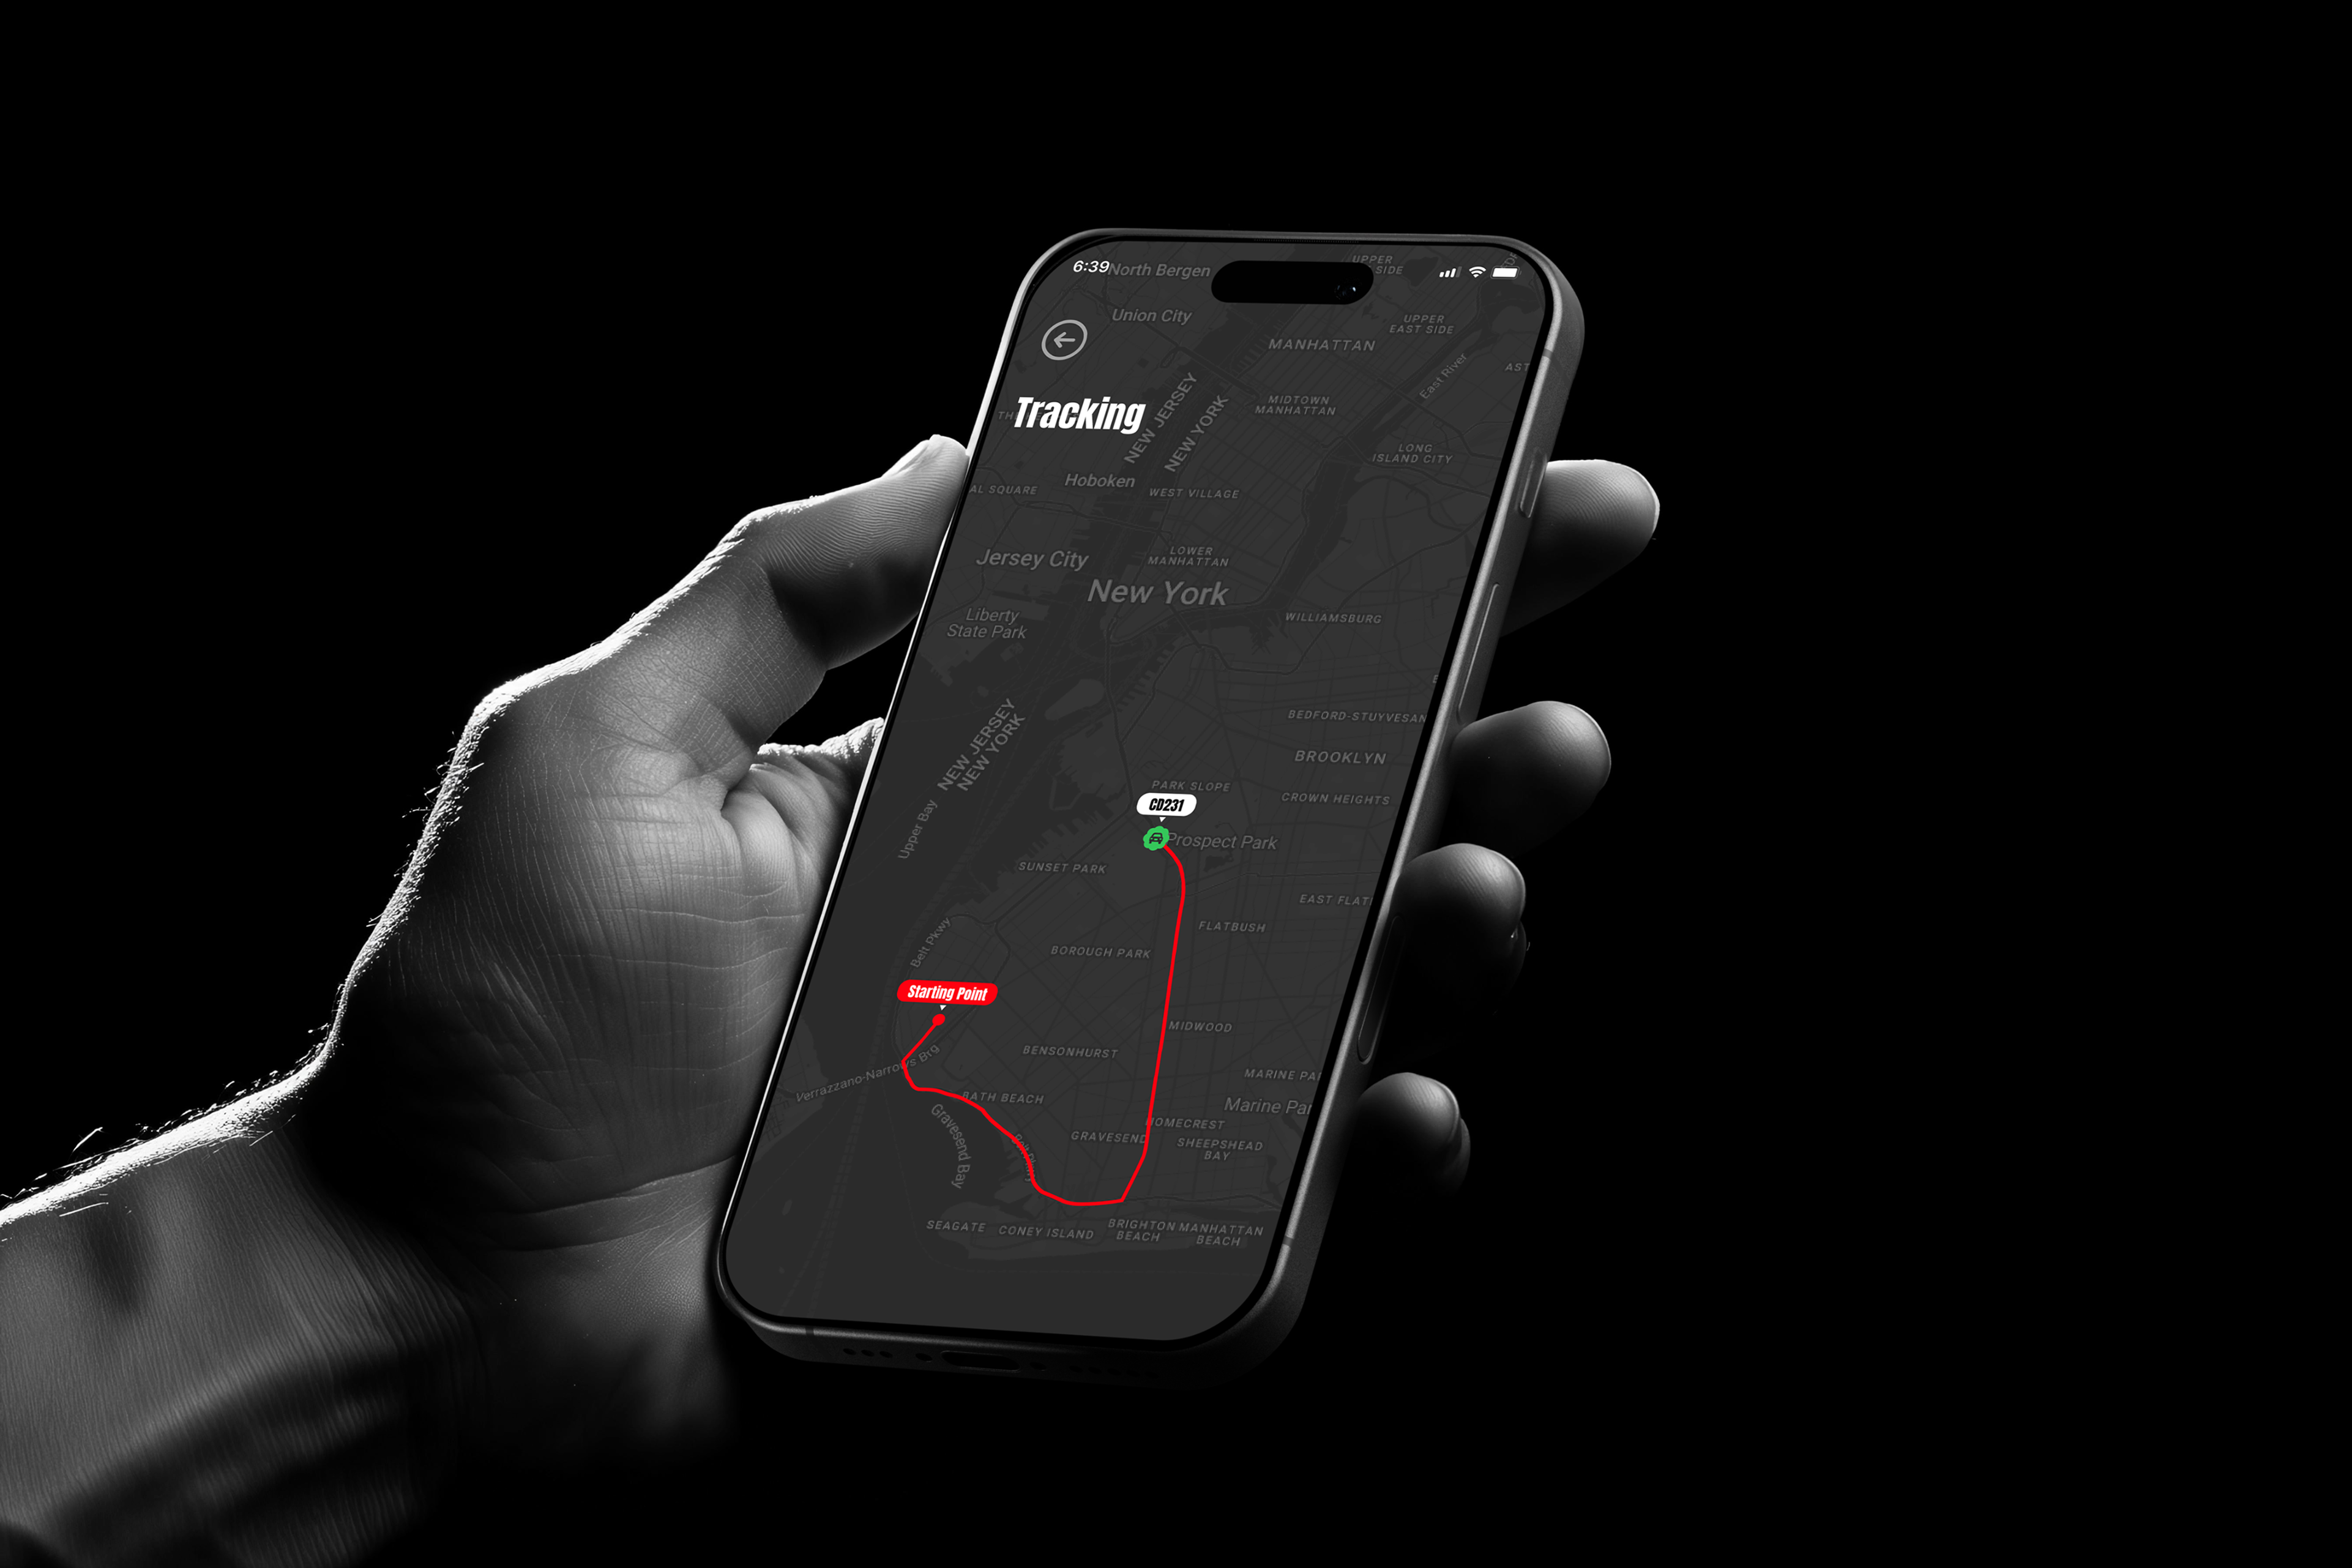
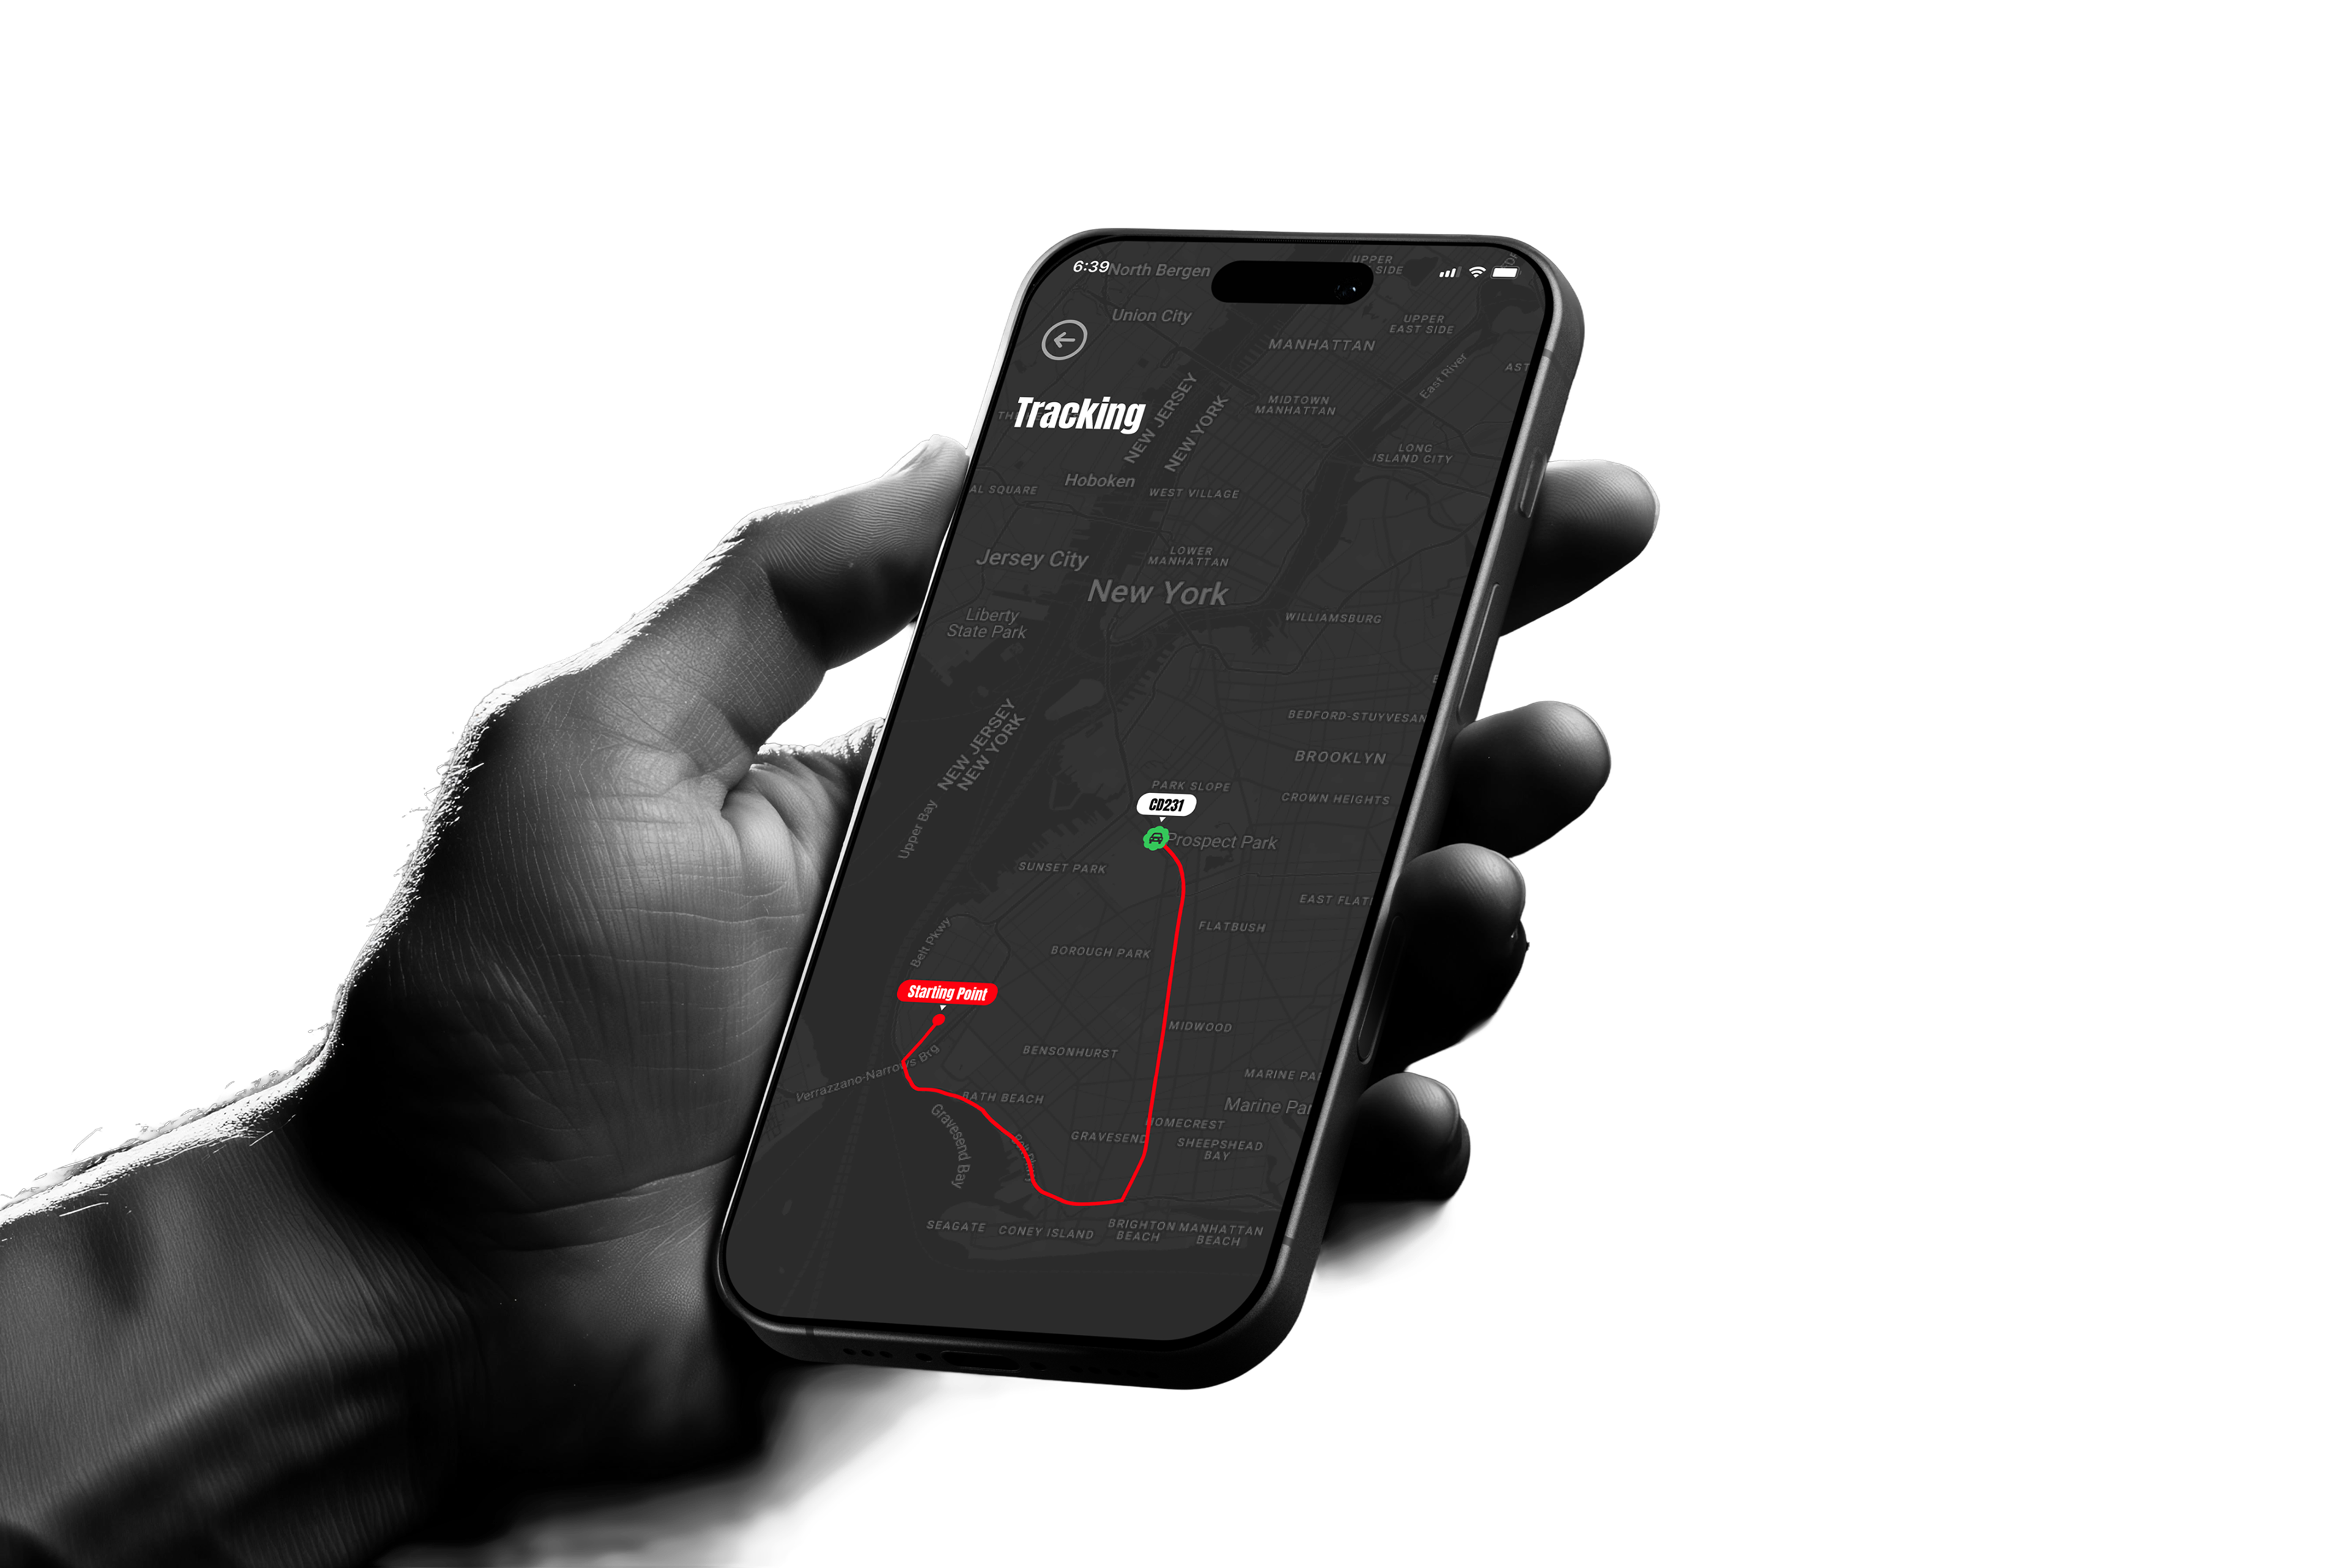
update

diff --git a/src/app/page.tsx b/src/app/page.tsx
@@ -33,7 +33,7 @@ export default function HomePage() {
         <div className="relative grid w-full items-center gap-10 lg:grid-cols-2 lg:gap-14">
           {/* Image bleeds to the screen's left edge — no container padding */}
           <Reveal>
-            <div className="relative aspect-[4/3] w-full overflow-hidden bg-black sm:aspect-[16/10] lg:aspect-auto lg:h-[640px]">
+            <div className="relative aspect-[4/3] w-full overflow-hidden bg-background sm:aspect-[16/10] lg:aspect-auto lg:h-[640px]">
               <Image
                 src="/home/home.png"
                 alt="AccuTrack live vehicle tracking on a phone"